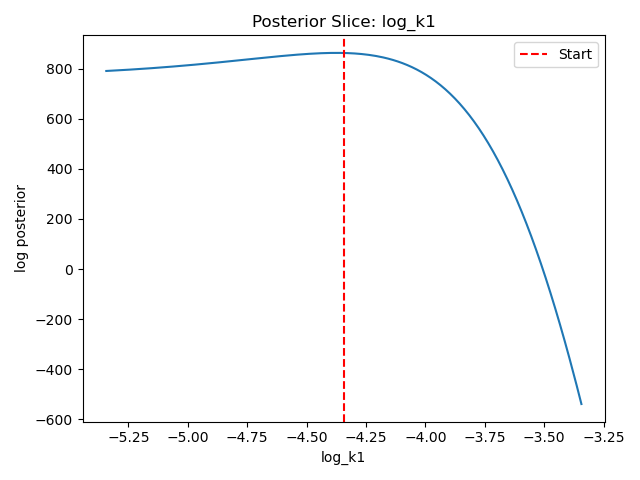
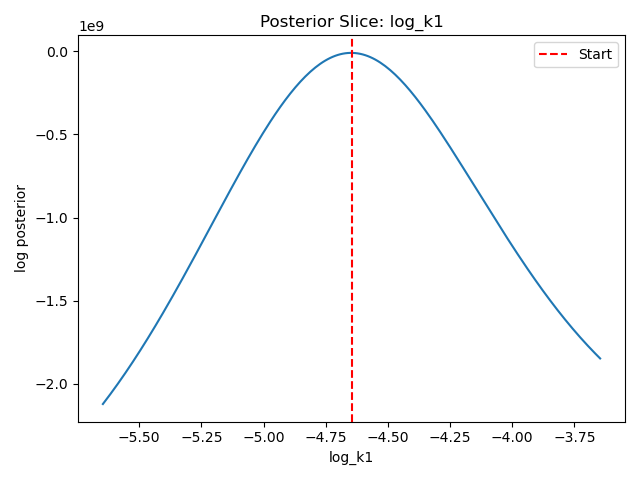
update some figures, make r = max(alpha) consistent

diff --git a/fit_kuro_fixedr.py b/fit_kuro_fixedr.py
@@ -65,7 +65,7 @@ nmr_index = {
 mat = loadmat('epoxy_data_13Mar2026.mat')
 
 try:
-    fit_csv = pd.read_csv("fit_results/fixed_r/combined_results.csv", engine='python')
+    fit_csv = pd.read_csv("fit_results/combined_results.csv", engine='python')
     fit_csv = fit_csv.copy(deep=True)  # ensure safe read-only behavior
 except Exception as e:
     print(f"[Warning] Could not load combined_results.csv for initial guesses: {e}")
@@ -74,19 +74,20 @@ except Exception as e:
 def ode_rhs(t, a, log_k1, log_k2, m, n, r, eps=1e-10):
     k1 = 10 ** log_k1
     k2 = 10 ** log_k2
-    a = np.clip(a, eps, r - eps)
+    # alpha is physically bounded by 1; upper clip is min(r, 1) regardless of r
+    a = np.clip(a, eps, min(r, 1.0) - eps)
     return (k1 + k2 * a**m) * (1 - a)**(n/2) * (r - a)**(n/2)
 
 def solve_model(log_k1, log_k2, m, n, r, t_data, a_data, eps=1e-10):
     try:
-        a0 = np.clip(a_data[0], eps, r - eps)
+        a0 = np.clip(a_data[0], eps, min(r, 1.0) - eps)
         sol = solve_ivp(ode_rhs, [t_data[0], t_data[-1]], [a0], t_eval=t_data,
                         args=(log_k1, log_k2, m, n, r), method='LSODA',
                         rtol=1e-8, atol=1e-10)
         if not sol.success or not np.all(np.isfinite(sol.y)):
             log_debug(f"[ODE FAIL] success={sol.success}, finite={np.all(np.isfinite(sol.y))}, log_k1={log_k1}, log_k2={log_k2}, m={m}, n={n}, r={r}, a0={a0}, t_span=({t_data[0]}, {t_data[-1]})\n")
             return np.full_like(t_data, np.nan)
-        return np.clip(sol.y[0], 1e-8, r - 1e-8)
+        return np.clip(sol.y[0], 1e-8, min(r, 1.0) - 1e-8)
     except Exception as e:
         log_debug(f"[SOLVE EXCEPTION] log_k1={log_k1}, log_k2={log_k2}, m={m}, n={n}, r={r} => {e}\n")
         return np.full_like(t_data, np.nan)
@@ -112,7 +113,7 @@ def log_likelihood(params, t_data, a_data, r):
 
     try:
         a_fit = solve_model(log_k1, log_k2, m, n, r, t_data, a_data)
-        a_fit = np.clip(a_fit, 1e-8, r - 1e-8)
+        a_fit = np.clip(a_fit, 1e-8, min(r, 1.0) - 1e-8)
     except Exception as e:
         log_debug(f"[SOLVE EXCEPTION] {params} => {e}\n")
         return -np.inf
@@ -395,6 +396,7 @@ def process_single(task):
         return None
 
     r = np.max(a_data)
+    # r = 2.0  # Fixed r for all fits, as per new plan
     start = None
     scale_params = None
 
@@ -406,7 +408,7 @@ def process_single(task):
         try:
             log_k1_vals = np.linspace(-10, 0, 100)
             log_k2_vals = np.linspace(-10, 0, 100)
-            fixed_params = [0.4, 1.6, -3.0]  # m, n, log_sigma guess — replace if needed
+            fixed_params = [1.0, 1.4, -3.0]  # m, n, log_sigma guess
             start = scan_log_posterior_grid(log_k1_vals, log_k2_vals, fixed_params, t_data, a_data, r, method, sample, temp)
             np.save(grid_param_file, start)
             scale_params = np.array([0.2, 0.2, 0.05, 0.05, 0.05])
@@ -487,7 +489,9 @@ def process_single(task):
         summary[f"{name}_lower"] = np.percentile(vals, 2.5)
         summary[f"{name}_upper"] = np.percentile(vals, 97.5)
 
-    return {"Method": method, "Sample": sample, "Temp_C": temp, **summary}
+    return {"Method": method, "Sample": sample, "Temp_C": temp,
+            "r_value": r, "r_treatment": "fixed_stoichiometric",
+            **summary}
 
 if __name__ == "__main__":
     freeze_support()
@@ -522,6 +526,7 @@ if __name__ == "__main__":
         t_data = t_data - t_data[0]
         a_data = np.clip(a_data, 1e-8, 1 - 1e-8)
         r = np.max(a_data)
+        # r = 2.0  # Fixed r for all fits, as per new plan
 
         # Define grid and fixed parameters
         log_k1_vals = np.linspace(-6, -3, 100)
@@ -542,7 +547,7 @@ if __name__ == "__main__":
         # DAP2 is NMR-only — skip DSC for that sample
         tasks = [(method, sample, temp)
                  for sample in samples_list
-                 for method, temps in [('DSC', dsc_temps), ('NMR', nmr_temps)]
+                 for method, temps in [('DSC', dsc_temps), ('NMR', nmr_temps)] 
                  for temp in temps
                  if not (sample == 'DAP2' and method == 'DSC')]
 
@@ -553,5 +558,7 @@ if __name__ == "__main__":
                 all_results.append(result)
 
         results_df = pd.DataFrame(all_results)
-        results_df.to_csv('parameter_estimates.csv', index=False)
-        print("All results saved to parameter_estimates.csv")
+        timestamp = datetime.now().strftime("%Y%m%d_%H%M")
+        out_path = f"{output_dir}/parameter_estimates_{timestamp}.csv"
+        results_df.to_csv(out_path, index=False)
+        print(f"All results saved to {out_path}")

diff --git a/fit_nmr_km.py b/fit_nmr_km.py
@@ -309,6 +309,7 @@ def process_single(sample, temp, do_mcmc=False):
     row = {
         "sample": sample, "temp": temp,
         "k1": k1, "k2": k2, "m": m, "n": n,
+        "r_value": R, "r_treatment": "fixed_stoichiometric",
         "rss": rss, "converged": converged,
     }
 
